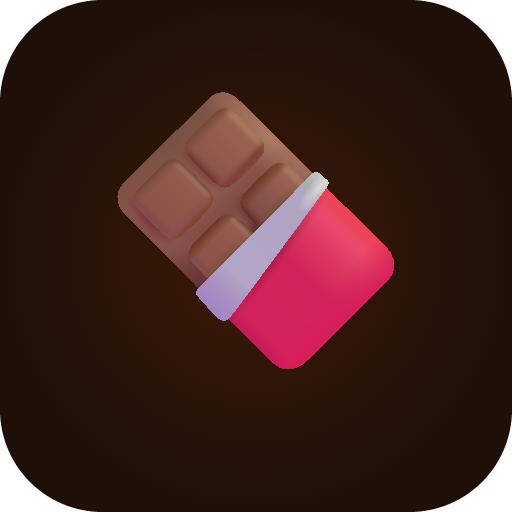
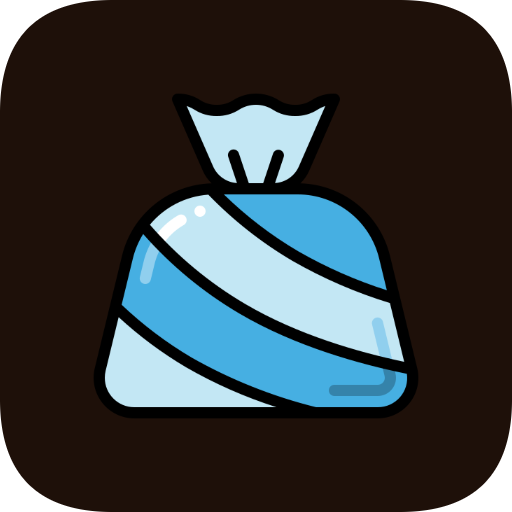
feat: atualizar icones PWA com imagem de doce customizada

diff --git a/make-icons.html b/make-icons.html
@@ -1,36 +1,76 @@
 <!DOCTYPE html>
-<html>
-<head><title>Gerar ícones</title></head>
+<html lang="pt-BR">
+<head>
+  <meta charset="UTF-8" />
+  <title>Gerar Ícones PWA</title>
+  <style>
+    body { font-family: sans-serif; background: #120a06; color: #f5ede6; padding: 30px; }
+    canvas { display: block; margin: 10px 0; border-radius: 20px; }
+    .btn { background: #c8860a; color: #fff; border: none; padding: 10px 20px; border-radius: 8px; cursor: pointer; font-size: 1rem; margin: 6px 4px; }
+    .grupo { margin-bottom: 30px; }
+    h3 { color: #f5a623; }
+  </style>
+</head>
 <body>
-<button onclick="gerar()">Gerar e baixar ícones</button>
-<script>
-function gerar() {
-  [192, 512].forEach(size => {
-    const canvas = document.createElement('canvas');
-    canvas.width = canvas.height = size;
-    const ctx = canvas.getContext('2d');
+  <h2>Gerar Ícones PWA — Trufas</h2>
 
-    // Fundo chocolate
-    const grad = ctx.createRadialGradient(size/2, size/2, 0, size/2, size/2, size/2);
-    grad.addColorStop(0, '#3d1a06');
-    grad.addColorStop(1, '#1e1009');
-    ctx.fillStyle = grad;
-    ctx.beginPath();
-    ctx.roundRect(0, 0, size, size, size * 0.2);
-    ctx.fill();
+  <div class="grupo">
+    <h3>192 × 192</h3>
+    <canvas id="c192" width="192" height="192"></canvas>
+    <button class="btn" onclick="baixar('c192','icon-192.png')">Baixar icon-192.png</button>
+  </div>
 
-    // Emoji 🍫
-    ctx.font = `${size * 0.55}px serif`;
-    ctx.textAlign = 'center';
-    ctx.textBaseline = 'middle';
-    ctx.fillText('🍫', size / 2, size / 2);
+  <div class="grupo">
+    <h3>512 × 512</h3>
+    <canvas id="c512" width="512" height="512"></canvas>
+    <button class="btn" onclick="baixar('c512','icon-512.png')">Baixar icon-512.png</button>
+  </div>
 
-    const a = document.createElement('a');
-    a.download = `icon-${size}.png`;
-    a.href = canvas.toDataURL('image/png');
-    a.click();
-  });
-}
-</script>
+  <script>
+    const BG      = '#1e1009';
+    const PADDING = 0.15;
+
+    function desenhar(canvasId, size) {
+      const canvas = document.getElementById(canvasId);
+      const ctx    = canvas.getContext('2d');
+      const r      = size * 0.22;
+
+      const img  = new Image();
+      img.src    = 'icons/doce.png';
+      img.onload = () => {
+        // Fundo chocolate arredondado
+        ctx.clearRect(0, 0, size, size);
+        ctx.fillStyle = BG;
+        ctx.beginPath();
+        ctx.moveTo(r, 0);
+        ctx.lineTo(size - r, 0);
+        ctx.quadraticCurveTo(size, 0, size, r);
+        ctx.lineTo(size, size - r);
+        ctx.quadraticCurveTo(size, size, size - r, size);
+        ctx.lineTo(r, size);
+        ctx.quadraticCurveTo(0, size, 0, size - r);
+        ctx.lineTo(0, r);
+        ctx.quadraticCurveTo(0, 0, r, 0);
+        ctx.closePath();
+        ctx.fill();
+
+        // Ícone centralizado com padding
+        const pad = size * PADDING;
+        const dim = size - pad * 2;
+        ctx.drawImage(img, pad, pad, dim, dim);
+      };
+    }
+
+    function baixar(canvasId, nome) {
+      const canvas = document.getElementById(canvasId);
+      const a = document.createElement('a');
+      a.download = nome;
+      a.href = canvas.toDataURL('image/png');
+      a.click();
+    }
+
+    desenhar('c192', 192);
+    desenhar('c512', 512);
+  </script>
 </body>
 </html>